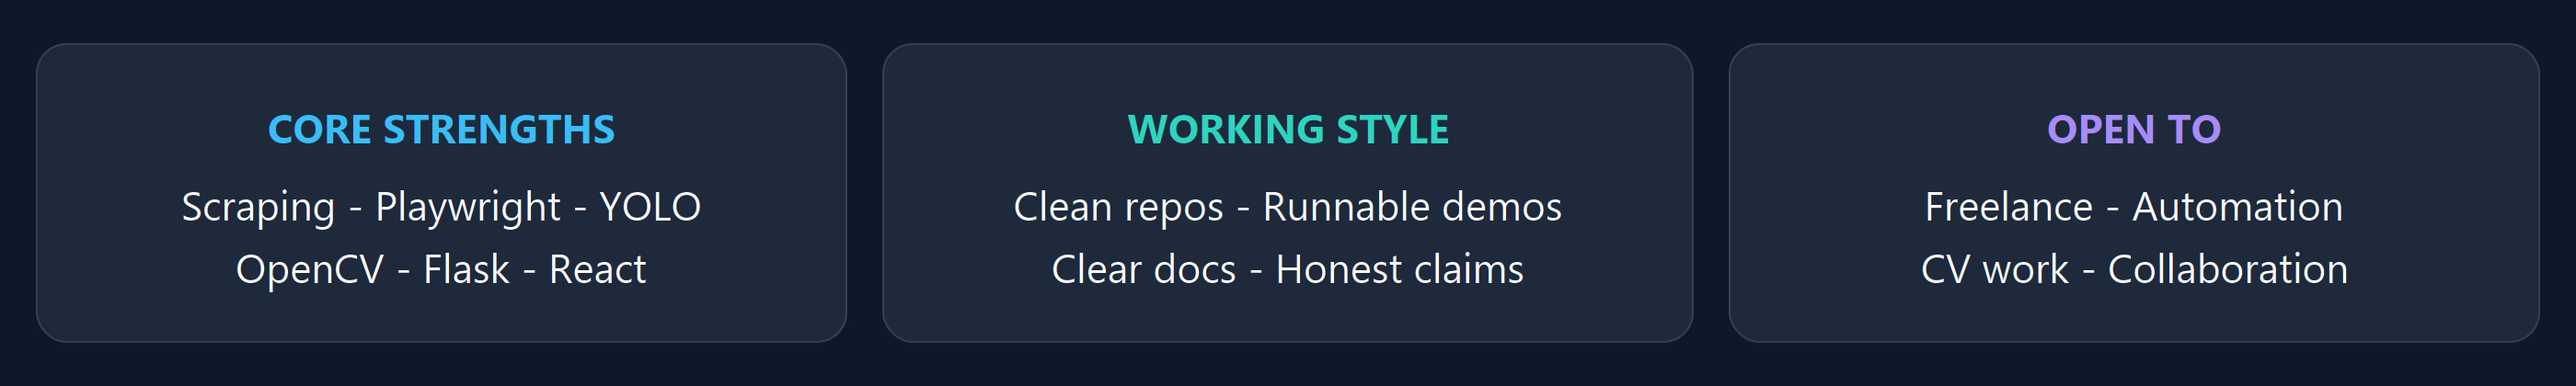
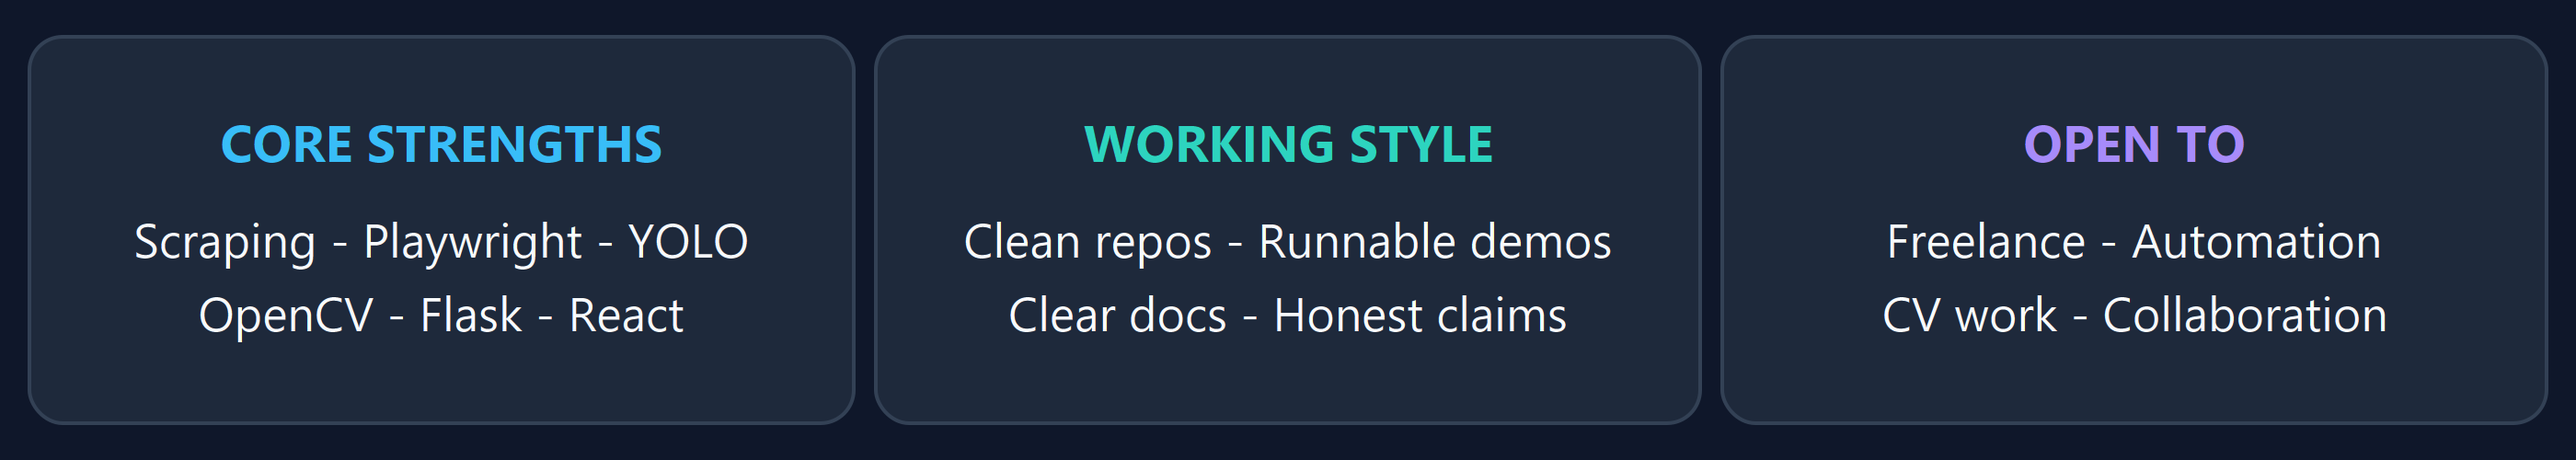
Make Focus areas and About card text much larger

diff --git a/README.md b/README.md
@@ -23,7 +23,7 @@
 ## Focus areas
 
 <p align="center">
-  <img src="https://raw.githubusercontent.com/azhar-fullstack/azhar-fullstack/main/assets/domains.png?v=2" width="100%" alt="Web Scraping, Computer Vision, AI Automation, Full-Stack"/>
+  <img src="https://raw.githubusercontent.com/azhar-fullstack/azhar-fullstack/main/assets/domains.png?v=3" width="100%" alt="Web Scraping, Computer Vision, AI Automation, Full-Stack"/>
 </p>
 
 ---
@@ -39,7 +39,7 @@ collect / detect  ->  process  ->  deliver (Excel / UI / video / API)
 Public repositories reflect real client-style work: lead generation, browser automation, computer-vision overlays, and small full-stack products.
 
 <p align="center">
-  <img src="https://raw.githubusercontent.com/azhar-fullstack/azhar-fullstack/main/assets/about-cards.png?v=2" width="100%" alt="Core strengths, working style, open to"/>
+  <img src="https://raw.githubusercontent.com/azhar-fullstack/azhar-fullstack/main/assets/about-cards.png?v=3" width="100%" alt="Core strengths, working style, open to"/>
 </p>
 
 ---
